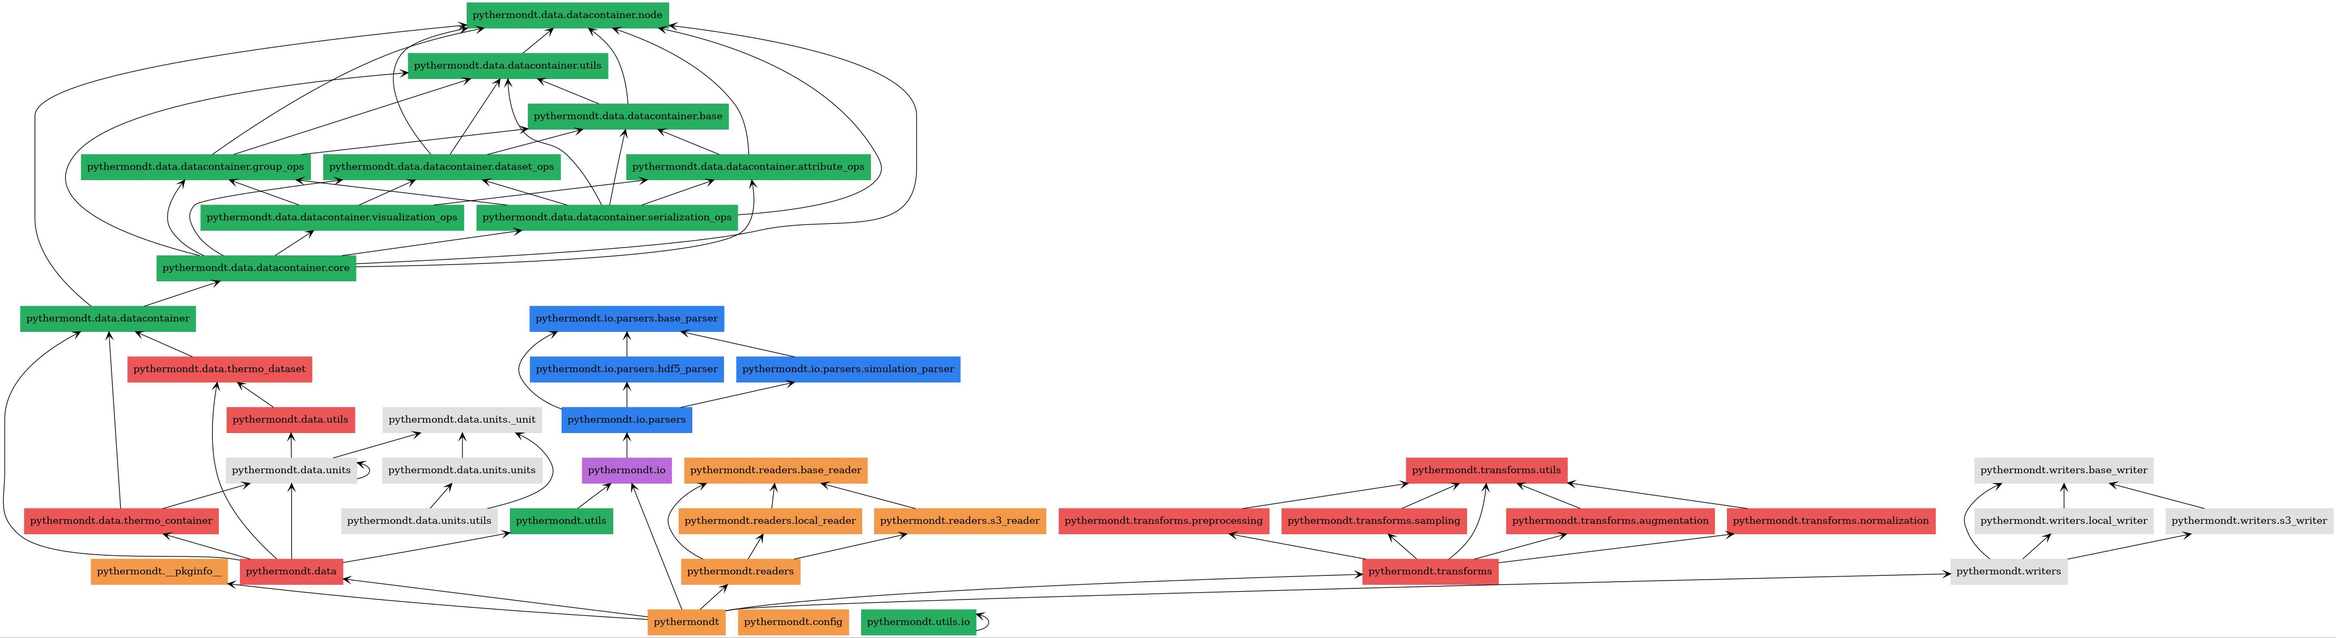
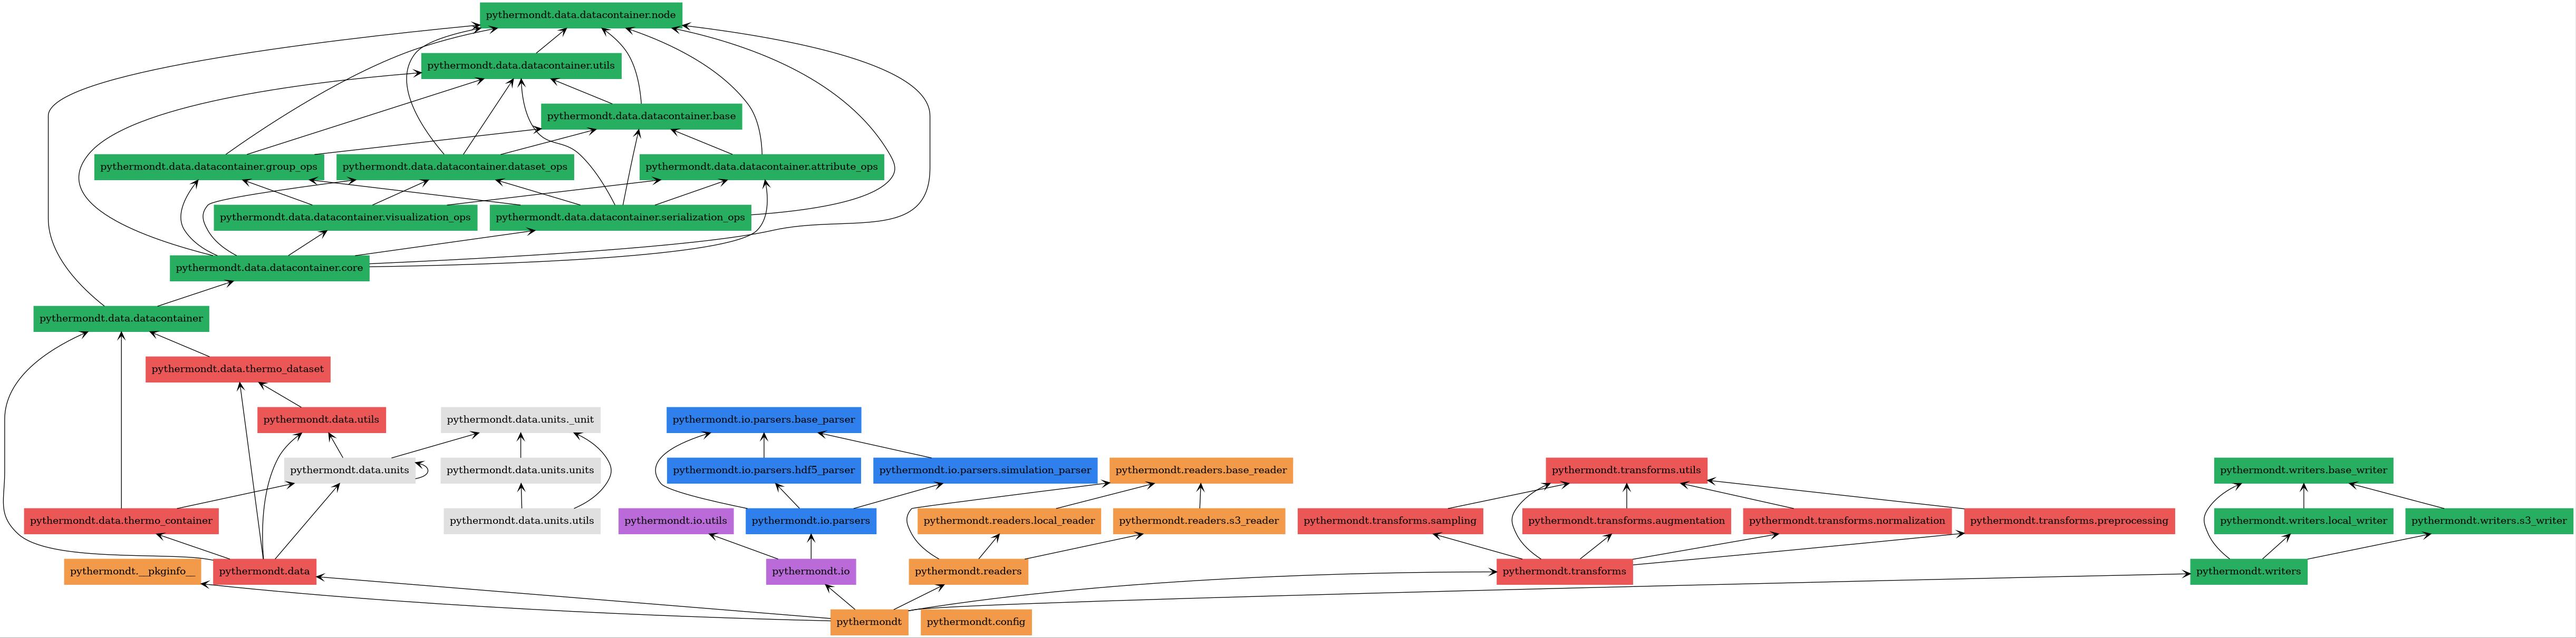
Move IOPathWrapper to io module and eliminate circular dependency with DataContainer (#95)
* Move IOPathWrapper in the io module

* Fix imports in parsers

* Fix imports in readers

* Make the datacontainer independent of the io module ==> Datacontainer only works with raw BytesIO objects instead of the wrapper class

* Fix imports in tests

* Now directly pass the BytesIO object in the HDF5 Parser to the Datacontainer constructor

* Fix diagram generation

* Update pyreverse diagrams

* Delete the utils package because this is not needed anymore

* Apply suggestions from code review

* Update docstrings

* Fix code style

* clean up imports

---------

diff --git a/src/pythermondt/data/datacontainer/serialization_ops.py b/src/pythermondt/data/datacontainer/serialization_ops.py
@@ -1,12 +1,11 @@
-import io
 import json
 from collections.abc import ItemsView
+from io import BytesIO
 from typing import Any
 
 import h5py
 import numpy as np
 
-from ...utils import IOPathWrapper
 from .attribute_ops import AttributeOps
 from .base import BaseOps
 from .dataset_ops import DatasetOps
@@ -16,13 +15,13 @@ from .utils import validate_path
 
 
 class SerializationOps(BaseOps):
-    def serialize_to_hdf5(self) -> IOPathWrapper:
+    def serialize_to_hdf5(self) -> BytesIO:
         """Serializes the DataContainer instance to an HDF5 file.
 
         Returns:
-            io.BytesIO: The serialized DataContainer instance as a BytesIO object.
+            BytesIO: The serialized DataContainer instance as a BytesIO object.
         """
-        hdf5_bytes = io.BytesIO()
+        hdf5_bytes = BytesIO()
 
         with h5py.File(hdf5_bytes, "w") as f:
             for path, node in self.nodes.items():
@@ -51,7 +50,7 @@ class SerializationOps(BaseOps):
 
         # Reset the BytesIO object to the beginning and return it
         hdf5_bytes.seek(0)
-        return IOPathWrapper(hdf5_bytes)
+        return hdf5_bytes
 
     def _add_attributes(self, h5obj: h5py.Dataset | h5py.Group, attributes: ItemsView[str, AttributeTypes]):
         """Adds attributes to an HDF5 object (group or dataset).
@@ -75,23 +74,23 @@ class SerializationOps(BaseOps):
             path (str): The path where the HDF5 file should be saved.
         """
         with open(path, "wb") as file:
-            file.write(self.serialize_to_hdf5().file_obj.getvalue())
+            file.write(self.serialize_to_hdf5().getvalue())
 
 
 class DeserializationOps(GroupOps, DatasetOps, AttributeOps):
-    def deserialize(self, hdf5_data: IOPathWrapper):
+    def deserialize(self, hdf5_data: BytesIO):
         """Deserializes an HDF5 file into the DataContainer instance.
 
         Parameters:
-            hdf5_data (IOPathWrapper): The HDF5 file to deserialize.
+            hdf5_data (BytesIO): The HDF5 file to deserialize.
         """
         # Check if the IOPathWrapper object is empty
-        if hdf5_data.file_obj.getbuffer().nbytes == 0:
+        if hdf5_data.getbuffer().nbytes == 0:
             raise ValueError("The given IOPathWrapper object is empty.")
 
         # Check if the IOPathWrapper object is a HDF5 file
         try:
-            h5py.File(hdf5_data.file_obj)
+            h5py.File(hdf5_data)
         except OSError as o:
             raise ValueError("The given IOPathWrapper object does not contain a valid HDF5 file.") from o
 
@@ -100,7 +99,7 @@ class DeserializationOps(GroupOps, DatasetOps, AttributeOps):
             self.nodes["/"] = RootNode()
 
         # Open the HDF5 file in read mode
-        with h5py.File(hdf5_data.file_obj, "r") as f:
+        with h5py.File(hdf5_data, "r") as f:
             # Iterate over all items in the HDF5 file
             for item_name, item in f.items():
                 if isinstance(item, h5py.Group):
@@ -195,4 +194,4 @@ class DeserializationOps(GroupOps, DatasetOps, AttributeOps):
         """
         with open(path, "rb") as file:
             hdf5_bytes = file.read()
-        self.deserialize(IOPathWrapper(hdf5_bytes))
+        self.deserialize(BytesIO(hdf5_bytes))

diff --git a/tests/data/datacontainer/test_serialization_ops.py b/tests/data/datacontainer/test_serialization_ops.py
@@ -3,7 +3,6 @@ import io
 import pytest
 
 from pythermondt.data import DataContainer
-from pythermondt.utils import IOPathWrapper
 
 
 @pytest.mark.parametrize("container_fixture", ["empty_container", "filled_container", "complex_container"])
@@ -26,8 +25,8 @@ def test_serialize_deserialize(container_fixture: str, request: pytest.FixtureRe
     hdf5_bytes = original_container.serialize_to_hdf5()
 
     # Check if the serialized data is a bytes object and is not empty
-    assert isinstance(hdf5_bytes, IOPathWrapper)
-    assert hdf5_bytes.file_obj.getbuffer().nbytes > 0
+    assert isinstance(hdf5_bytes, io.BytesIO)
+    assert hdf5_bytes.getbuffer().nbytes > 0
 
     # Deserialize into a new container
     deserialized_container = DataContainer(hdf5_bytes)
@@ -58,13 +57,13 @@ def test_serialize_file_operations(container_fixture: str, request: pytest.Fixtu
 
 def test_serialize_empty_bytes():
     """Test that deserializing empty bytes raises appropriate error."""
-    empty_bytes = IOPathWrapper(io.BytesIO())
+    empty_bytes = io.BytesIO()
     with pytest.raises(ValueError, match="The given IOPathWrapper object is empty."):
         DataContainer(empty_bytes)
 
 
 def test_serialize_invalid_hdf5():
     """Test that deserializing invalid HDF5 data raises appropriate error."""
-    invalid_bytes = IOPathWrapper(io.BytesIO(b"not an hdf5 file"))
+    invalid_bytes = io.BytesIO(b"not an hdf5 file")
     with pytest.raises(ValueError, match="The given IOPathWrapper object does not contain a valid HDF5 file."):
         DataContainer(invalid_bytes)

diff --git a/src/pythermondt/data/datacontainer/core.py b/src/pythermondt/data/datacontainer/core.py
@@ -1,6 +1,7 @@
+from io import BytesIO
+
 import torch
 
-from ...utils import IOPathWrapper
 from .attribute_ops import AttributeOps
 from .dataset_ops import DatasetOps
 from .group_ops import GroupOps
@@ -19,14 +20,14 @@ class DataContainer(SerializationOps, DeserializationOps, VisualizationOps, Grou
     for visualization of the data structure.
     """
 
-    def __init__(self, hdf5_data: IOPathWrapper | None = None):
+    def __init__(self, hdf5_data: BytesIO | None = None):
         """Initializes a DataContainer instance.
 
         By default, initializes an empty DataContainer.
         If a serialized HDF5 file is provided, the DataContainer is initialized with the data from the BytesIO object.
 
         Parameters:
-            hdf5_data (IOPathWrapper | None): The HDF5 file to deserialize. Defaults to None.
+            hdf5_data (BytesIO | None): The HDF5 file to deserialize. Defaults to None.
         """
         super().__init__()
 

diff --git a/tests/io/parsers/test_hdf5_parser.py b/tests/io/parsers/test_hdf5_parser.py
@@ -5,7 +5,7 @@ import torch
 
 from pythermondt.data import DataContainer
 from pythermondt.io.parsers import HDF5Parser
-from pythermondt.utils import IOPathWrapper
+from pythermondt.io.utils import IOPathWrapper
 
 
 def test_hdf5_parser_empty_bytes():
@@ -32,7 +32,7 @@ def test_hdf5_parser_valid_container():
     serialized = original.serialize_to_hdf5()
 
     # Parse the serialized data
-    parsed = HDF5Parser.parse(serialized)
+    parsed = HDF5Parser.parse(IOPathWrapper(serialized))
 
     # Check that the parsed container has the expected structure
     assert "TestGroup" in parsed.get_all_groups()

diff --git a/tests/data/datacontainer/test_data_container.py b/tests/data/datacontainer/test_data_container.py
@@ -1,9 +1,10 @@
+from io import BytesIO
+
 import pytest
 import torch
 from torch import Tensor
 
 from pythermondt.data import DataContainer
-from pythermondt.utils import IOPathWrapper
 
 from ...utils import containers_equal
 
@@ -95,7 +96,7 @@ def test_serialization(empty_container: DataContainer, sample_tensor: Tensor):
 
     # Serialize
     serialized = empty_container.serialize_to_hdf5()
-    assert isinstance(serialized, IOPathWrapper)
+    assert isinstance(serialized, BytesIO)
 
     # Deserialize
     new_container = DataContainer()

diff --git a/src/pythermondt/io/parsers/hdf5_parser.py b/src/pythermondt/io/parsers/hdf5_parser.py
@@ -1,5 +1,5 @@
 from ...data import DataContainer
-from ...utils import IOPathWrapper
+from ..utils import IOPathWrapper
 from .base_parser import BaseParser
 
 
@@ -22,4 +22,4 @@ class HDF5Parser(BaseParser):
             ValueError: If the given IOPathWrapper object is empty or does not contain a valid HDF5 file.
         """
         # Create a new DataContainer from the BytesIO object and return it
-        return DataContainer(data)
+        return DataContainer(data.file_obj)

diff --git a/src/pythermondt/readers/base_reader.py b/src/pythermondt/readers/base_reader.py
@@ -7,8 +7,8 @@ from tqdm.auto import tqdm
 
 from ..config import settings
 from ..data import DataContainer
+from ..io import IOPathWrapper
 from ..io.parsers import PARSER_REGISTRY, BaseParser, find_parser_for_extension
-from ..utils import IOPathWrapper
 
 
 class BaseReader(ABC):

diff --git a/tests/io/parsers/test_simulation_parser.py b/tests/io/parsers/test_simulation_parser.py
@@ -7,7 +7,7 @@ import pytest
 
 from pythermondt.data import ThermoContainer
 from pythermondt.io.parsers import SimulationParser
-from pythermondt.utils import IOPathWrapper
+from pythermondt.io.utils import IOPathWrapper
 from tests.utils import containers_equal
 
 

diff --git a/src/pythermondt/io/parsers/simulation_parser.py b/src/pythermondt/io/parsers/simulation_parser.py
@@ -6,7 +6,7 @@ import pymatreader
 from scipy.io.matlab import MatReadError
 
 from ...data import DataContainer, ThermoContainer
-from ...utils import IOPathWrapper
+from ..utils import IOPathWrapper
 from .base_parser import BaseParser
 
 

diff --git a/src/pythermondt/io/__init__.py b/src/pythermondt/io/__init__.py
@@ -1,7 +1,9 @@
 from .parsers import BaseParser, HDF5Parser, SimulationParser
+from .utils import IOPathWrapper
 
 __all__ = [
     "BaseParser",
     "HDF5Parser",
     "SimulationParser",
+    "IOPathWrapper",
 ]

diff --git a/src/pythermondt/readers/local_reader.py b/src/pythermondt/readers/local_reader.py
@@ -2,8 +2,7 @@ import os
 import re
 from glob import glob
 
-from ..io import BaseParser
-from ..utils import IOPathWrapper
+from ..io import BaseParser, IOPathWrapper
 from .base_reader import BaseReader
 
 

diff --git a/src/pythermondt/io/parsers/base_parser.py b/src/pythermondt/io/parsers/base_parser.py
@@ -1,7 +1,7 @@
 from typing import Protocol, runtime_checkable
 
 from ...data import DataContainer
-from ...utils import IOPathWrapper
+from ..utils import IOPathWrapper
 
 
 @runtime_checkable
